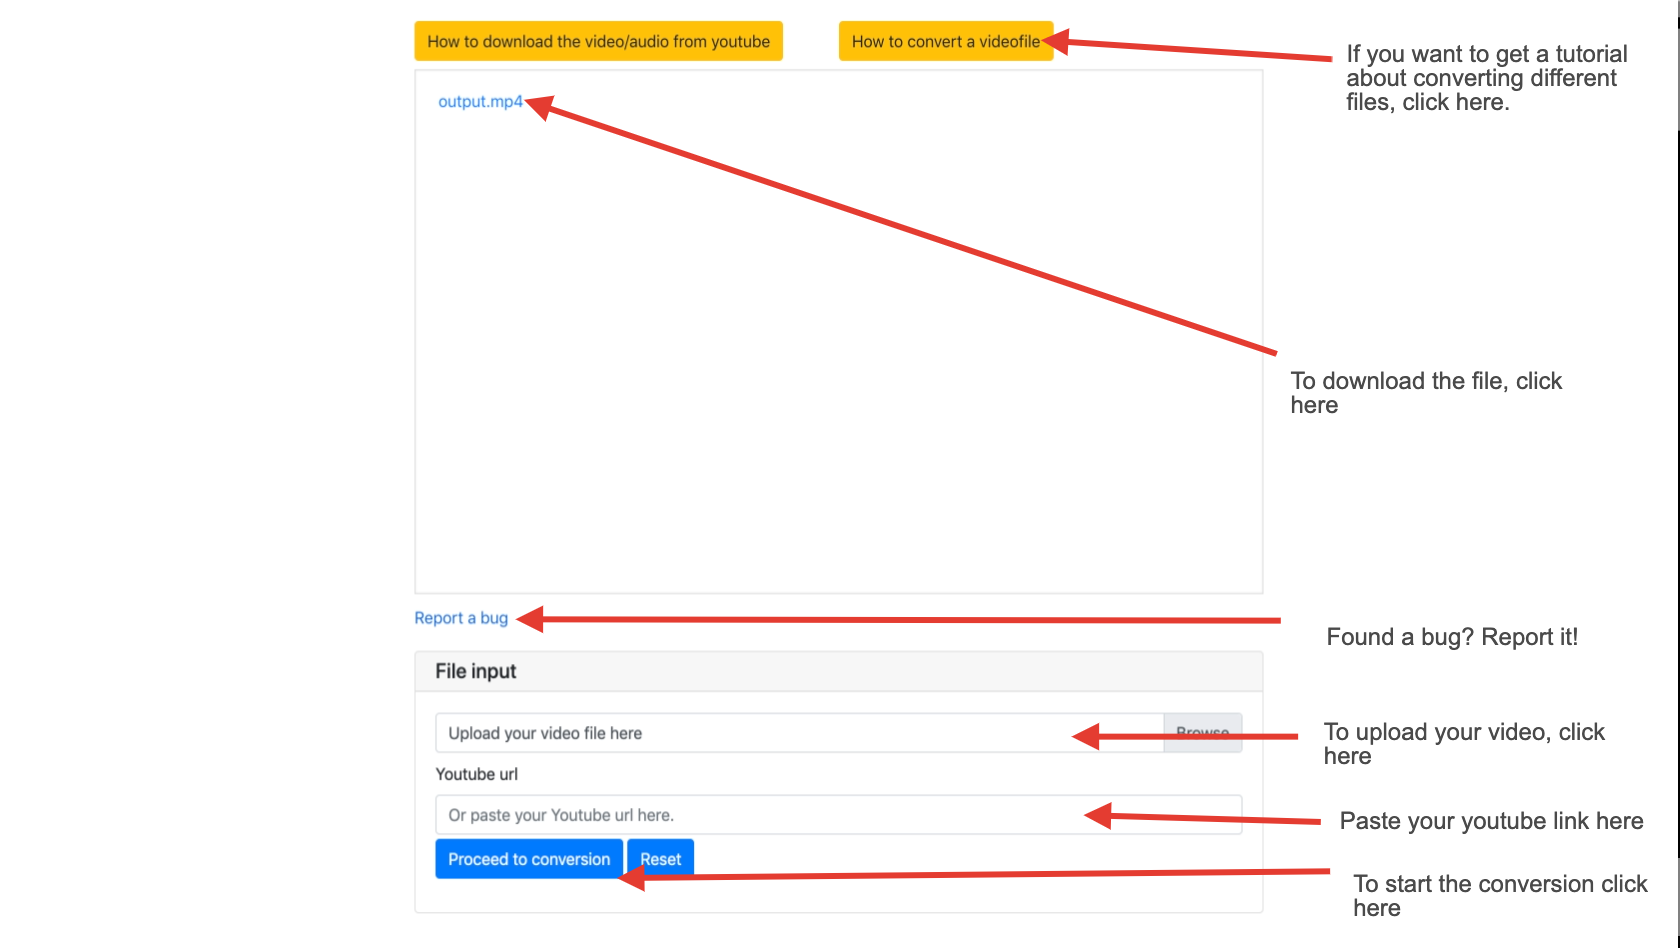
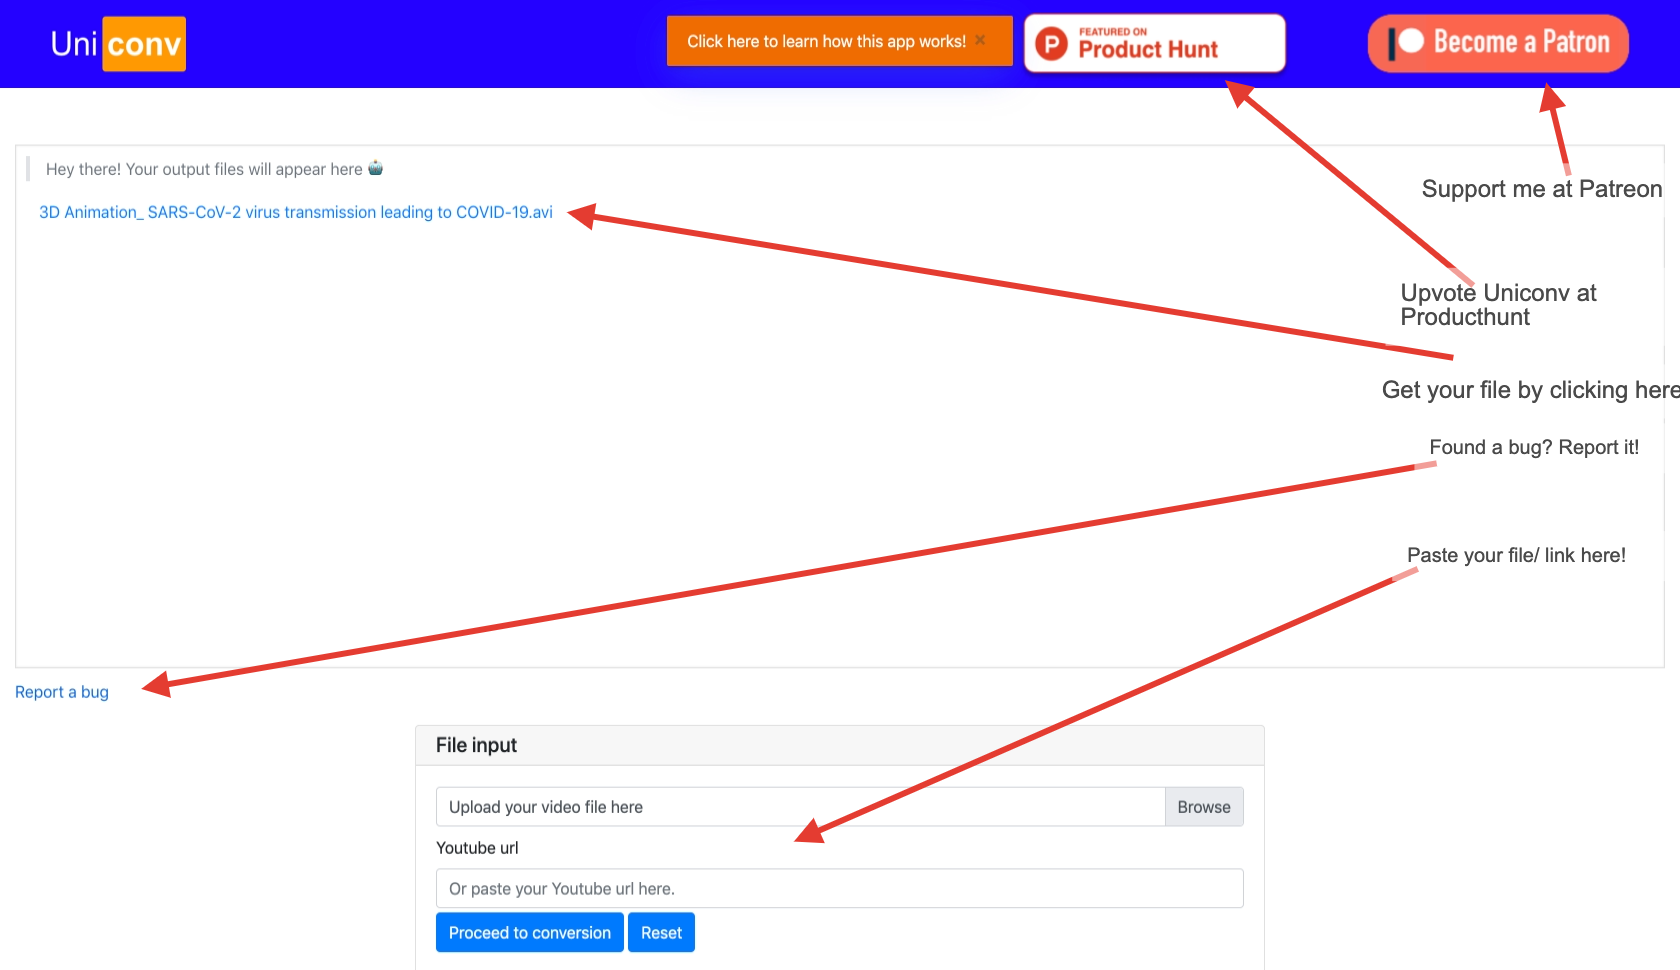
dashed output box border and loading gif

diff --git a/webapp.py b/webapp.py
@@ -101,17 +101,21 @@ def webapp():
     </script>
     <noscript><div><img src="https://mc.yandex.ru/watch/86550879" style="position:absolute; left:-9999px;" alt="" /></div></noscript>
     <!-- /Yandex.Metrika counter -->
+
+
+
+        <!-- Global site tag (gtag.js) - Google Analytics -->
+    <script async src="https://www.googletagmanager.com/gtag/js?id=G-F6BJSF52PD"></script>
+    <script>
+      window.dataLayer = window.dataLayer || [];
+      function gtag(){dataLayer.push(arguments);}
+      gtag('js', new Date());
+
+      gtag('config', 'G-F6BJSF52PD');
+    </script>
     """)
 
 
-    def file_tutorial():
-        popup(title='Tutorial',content=[
-            put_html('<iframe src="https://scribehow.com/embed/PyWebIO_Application__AxO3BZKGRfeScJIq28BRDw?skipIntro=true" width="100%" height="640" allowfullscreen frameborder="0"></iframe>')
-        ],closable=True,size='large')
-    def yt_tutorial():
-        popup(title='Tutorial',content=[
-            put_html('<iframe src="https://scribehow.com/embed/PyWebIO_Application__kpw-4cuoR2mzGLNPUeO1Zw?skipIntro=true" width="100%" height="640" allowfullscreen frameborder="0"></iframe>')
-        ],closable=True,size='large')
 
     def put_explainer():
         popup(title='What is it?',content =[put_image(open('screenshot (2).png', 'rb').read())],size='large',closable=True)
@@ -119,11 +123,10 @@ def webapp():
     #setup the basic layout
 
     toast(content = 'Click here to learn how this app works!',duration=0,color='warn',onclick=lambda : put_explainer())
-    #put_row([put_button('How to download the video/audio from youtube',color='warning',onclick=lambda : yt_tutorial()), put_button('How to convert a videofile',color='warning',onclick= lambda : file_tutorial())])
     put_text('''
             ''')
     output_box = output()
-    put_scrollable(output_box, height=500,keep_bottom=True)
+    put_scrollable(output_box, height=500,keep_bottom=True).style('outline: 3px dashed #2400ff;')
     put_link(name='Report a bug',url='https://forms.gle/wNiCuo7d3c1vsBb66',new_window=True)
 
     set_scope(name='output_md')
@@ -153,7 +156,7 @@ def webapp():
                     ])
 
                     resize_fac = 1
-                    toast('It can take some time to process your file, be patient ',duration=0,color='warn')
+                    #toast('It can take some time to process your file, please be patient ',duration=0,color='success')
 
 
 
@@ -172,7 +175,30 @@ def webapp():
                             if os.path.isfile (FILE_OUTPUT):
                                 os.remove (FILE_OUTPUT)
                             with use_scope('vid_to_mp4'):
-                                put_row([put_loading(shape='border',color='info'),put_text('Your file is being processed')])
+                                output_box.append(put_html('''
+
+                                <!DOCTYPE html>
+                                <html lang="en">
+                                  <head>
+                                    <meta charset="UTF-8" />
+                                    <meta http-equiv="X-UA-Compatible" content="IE=edge" />
+                                    <meta name="viewport" content="width=device-width, initial-scale=1.0" />
+                                    <title>Waiting GIF</title>
+                                  </head>
+                                  <body>
+                                    <div class="wraper" style="width: 300px; height: 300px; border-radius: 0px">
+                                      <img
+                                        src="https://res.cloudinary.com/dj9urm5ic/image/upload/v1638114829/78259-loading_ebmlxg.gif"
+                                        alt="waiting gif"
+                                        class="waiting"
+                                        style="width: 100%; height: 100%; object-fit: contain"
+                                      />
+                                    </div>
+                                  </body>
+                                </html>
+
+
+                                '''))
 
                             with open (FILE_OUTPUT, "wb") as out_file:
                                 out_file.write(data['source'].get('content'))
@@ -189,7 +215,30 @@ def webapp():
                             with open (FILE_OUTPUT, "wb") as out_file:
                                 out_file.write(data['source'].get('content'))
                             with use_scope('vid_to_audio'):
-                                 put_row([put_loading(shape='border',color='info'),put_text('Your file is being processed')])
+                                  output_box.append(put_html('''
+
+                                <!DOCTYPE html>
+                                <html lang="en">
+                                  <head>
+                                    <meta charset="UTF-8" />
+                                    <meta http-equiv="X-UA-Compatible" content="IE=edge" />
+                                    <meta name="viewport" content="width=device-width, initial-scale=1.0" />
+                                    <title>Waiting GIF</title>
+                                  </head>
+                                  <body>
+                                    <div class="wraper" style="width: 300px; height: 300px; border-radius: 0px">
+                                      <img
+                                        src="https://res.cloudinary.com/dj9urm5ic/image/upload/v1638114829/78259-loading_ebmlxg.gif"
+                                        alt="waiting gif"
+                                        class="waiting"
+                                        style="width: 100%; height: 100%; object-fit: contain"
+                                      />
+                                    </div>
+                                  </body>
+                                </html>
+
+
+                                '''))
                             vid_to_audio(source=FILE_OUTPUT,resize_factor=resize_fac,export=f'{file__name}.mp3')
                             clear('vid_to_audio')
 
@@ -206,7 +255,30 @@ def webapp():
                                 out_file.write(data['source'].get('content'))
 
                             with use_scope('vid_to_gif'):
-                                 put_row([put_loading(shape='border',color='info'),put_text('Your file is being processed')])
+                                  output_box.append(put_html('''
+
+                                <!DOCTYPE html>
+                                <html lang="en">
+                                  <head>
+                                    <meta charset="UTF-8" />
+                                    <meta http-equiv="X-UA-Compatible" content="IE=edge" />
+                                    <meta name="viewport" content="width=device-width, initial-scale=1.0" />
+                                    <title>Waiting GIF</title>
+                                  </head>
+                                  <body>
+                                    <div class="wraper" style="width: 300px; height: 300px; border-radius: 0px">
+                                      <img
+                                        src="https://res.cloudinary.com/dj9urm5ic/image/upload/v1638114829/78259-loading_ebmlxg.gif"
+                                        alt="waiting gif"
+                                        class="waiting"
+                                        style="width: 100%; height: 100%; object-fit: contain"
+                                      />
+                                    </div>
+                                  </body>
+                                </html>
+
+
+                                '''))
                             toast('Gifs usually take some time to process',duration=0,color='warn')
                             vid_to_gif(source=FILE_OUTPUT,resize_factor=resize_fac,export=f'{file__name}.gif')
                             clear('vid_to_gif')
@@ -258,7 +330,30 @@ def webapp():
                     if os.path.isfile (f'{yt_title}.mp4'):
                         os.remove (f'{yt_title}.mp4')
                     with use_scope('yt_to_mp4'):
-                        put_row([put_loading(shape='border',color='info'),put_text('Your file is being processed')])
+                         output_box.append(put_html('''
+
+                                <!DOCTYPE html>
+                                <html lang="en">
+                                  <head>
+                                    <meta charset="UTF-8" />
+                                    <meta http-equiv="X-UA-Compatible" content="IE=edge" />
+                                    <meta name="viewport" content="width=device-width, initial-scale=1.0" />
+                                    <title>Waiting GIF</title>
+                                  </head>
+                                  <body>
+                                    <div class="wraper" style="width: 300px; height: 300px; border-radius: 0px">
+                                      <img
+                                        src="https://res.cloudinary.com/dj9urm5ic/image/upload/v1638114829/78259-loading_ebmlxg.gif"
+                                        alt="waiting gif"
+                                        class="waiting"
+                                        style="width: 100%; height: 100%; object-fit: contain"
+                                      />
+                                    </div>
+                                  </body>
+                                </html>
+
+
+                                '''))
                     yt_to_mp4(data['url'],export=yt_title)
                     clear('yt_to_mp4')
                     output_box.append(put_file(name=f'{yt_title}.mp4',content=open(f'{yt_title}.mp4', 'rb').read()))
@@ -268,7 +363,30 @@ def webapp():
                     if os.path.isfile (f'{yt_title}.mp3'):
                         os.remove (f'{yt_title}.mp3')
                     with use_scope('vid_to_mp3'):
-                        put_row([put_loading(shape='border',color='info'),put_text('Your file is being processed')])
+                         output_box.append(put_html('''
+
+                                <!DOCTYPE html>
+                                <html lang="en">
+                                  <head>
+                                    <meta charset="UTF-8" />
+                                    <meta http-equiv="X-UA-Compatible" content="IE=edge" />
+                                    <meta name="viewport" content="width=device-width, initial-scale=1.0" />
+                                    <title>Waiting GIF</title>
+                                  </head>
+                                  <body>
+                                    <div class="wraper" style="width: 300px; height: 300px; border-radius: 0px">
+                                      <img
+                                        src="https://res.cloudinary.com/dj9urm5ic/image/upload/v1638114829/78259-loading_ebmlxg.gif"
+                                        alt="waiting gif"
+                                        class="waiting"
+                                        style="width: 100%; height: 100%; object-fit: contain"
+                                      />
+                                    </div>
+                                  </body>
+                                </html>
+
+
+                                '''))
                     yt_to_audio(data['url'], export=yt_title)
                     clear('vid_to_mp3')
 
@@ -279,7 +397,7 @@ def webapp():
 
             except pytube.exceptions.VideoUnavailable:
                 popup ('Invalid url', [
-                    put_markdown("You have inputed an invalid youtube url, try again"),
+                    put_markdown("You have inputed an invalid youtube url, please try again"),
                     put_buttons (['Ok'], onclick=lambda _: close_popup())
                 ])
 
